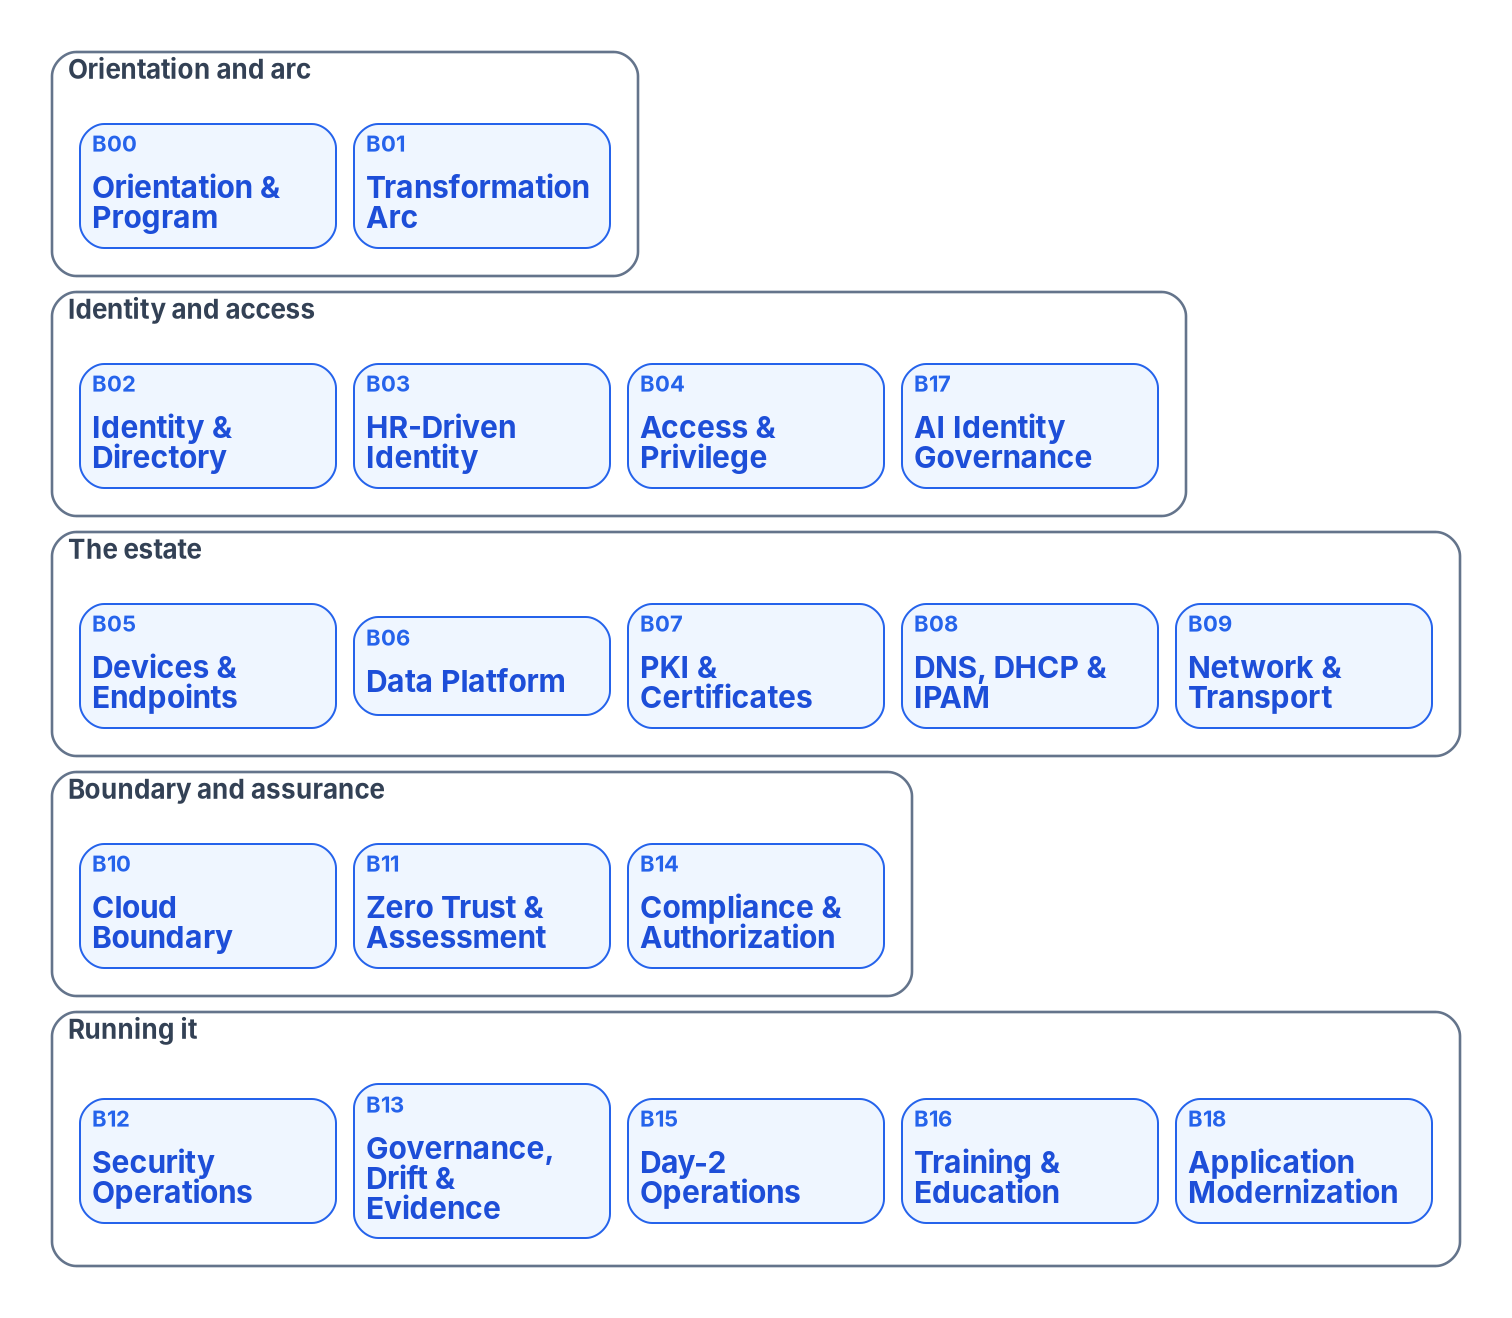
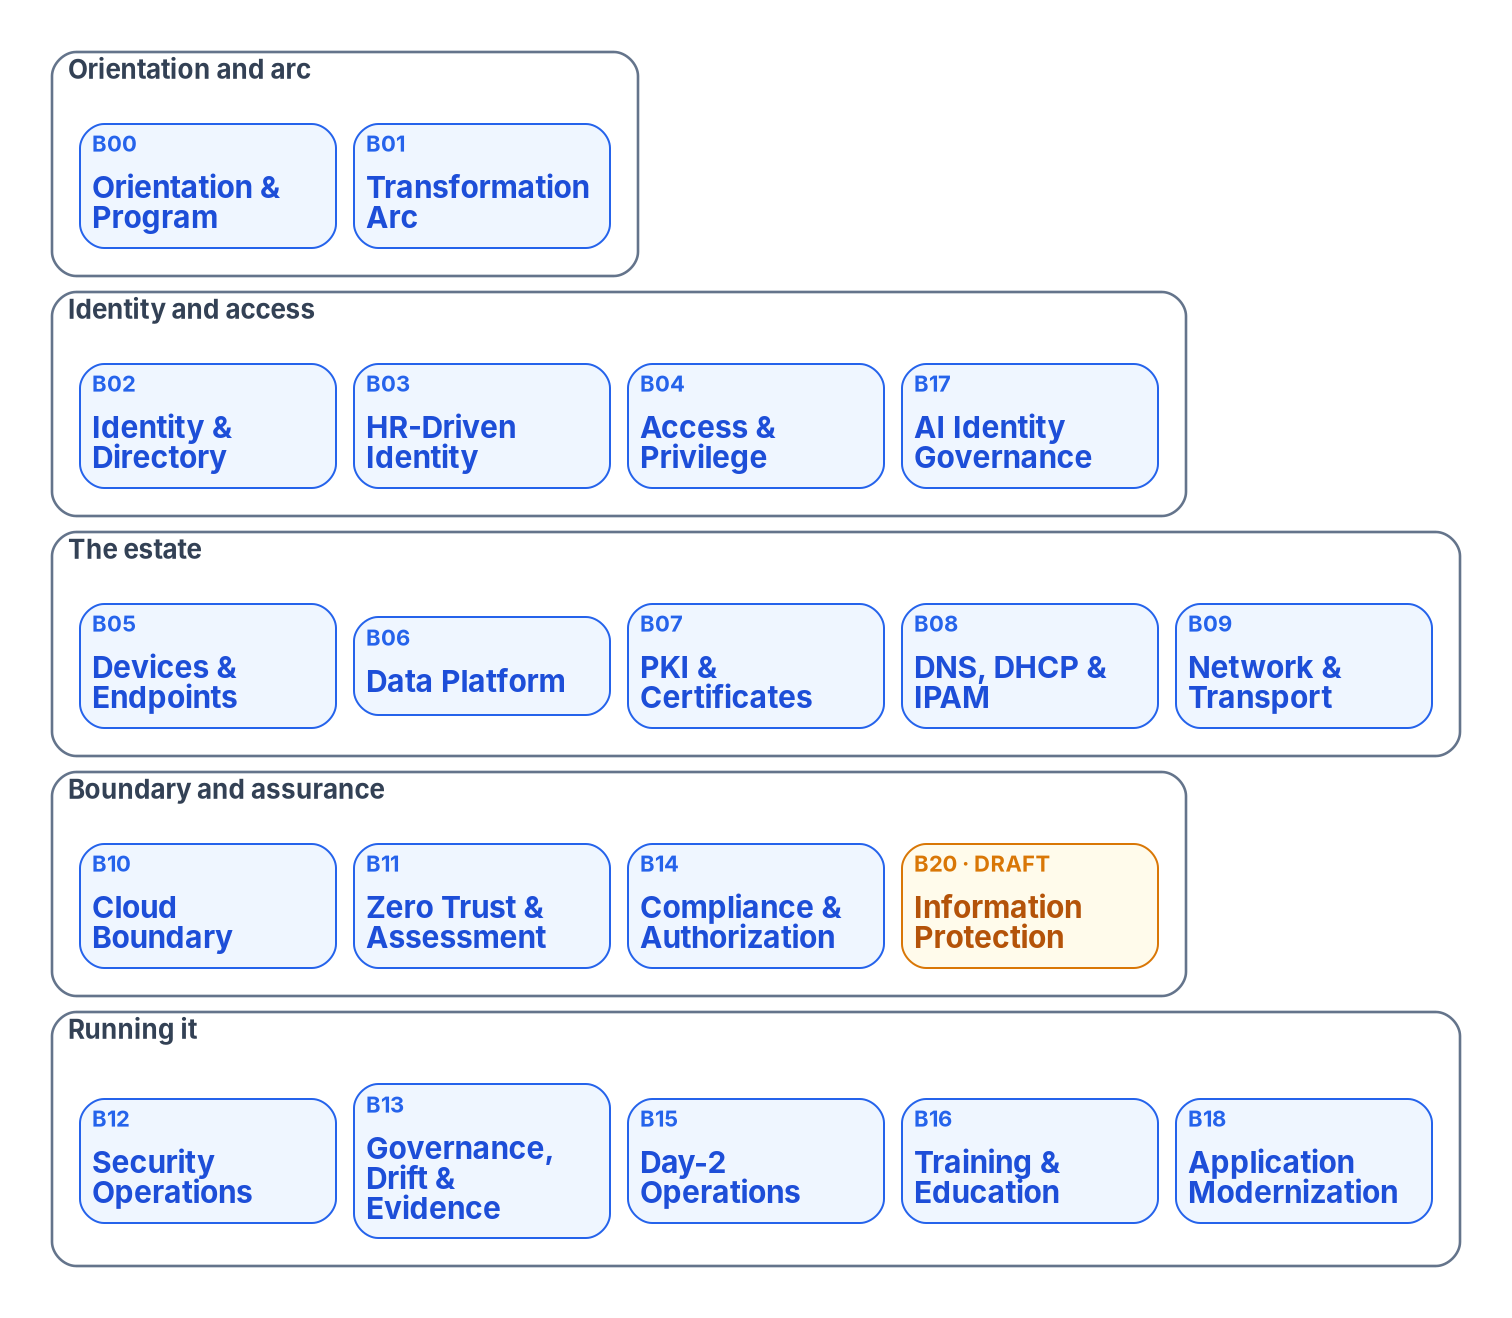
ZTA closure, Phase 4 follow-ups: Book 20 on the home page and the Book 00 map
Home page: twenty topic books and the developer workbook, with Book 20 named as a
draft outside Release 2.0 (matching the Books page), a Book 20 card, and the stat
tile updated. Book 00 Chapter 02: Book 20 added to the map-of-the-books diagram
source in amber, tagged draft, re-rendered with scripts/diagrams/render.py; the
caption, alt text and the chapter's count updated (the old heading's anchor kept).

Changed region(s): [[0.5906, 0.6222, 0.7149, 0.7777], [0.5906, 0.5599, 0.6217, 0.591]]

diff --git a/docs/books/b00-orientation/02-how-to-use-this-workbook.md b/docs/books/b00-orientation/02-how-to-use-this-workbook.md
@@ -1,6 +1,6 @@
 ---
 title: "Chapter 02 — How to Use This Workbook"
-description: "How the Federal Modernization Workbook is built and organized: nineteen topic books, each framed Why / What / Who / How; how every external claim is verified and footnoted; the house-style diagrams; the Word editions; the 15-minute decks with narrated, captioned editions; how replaced pages are archived and redirected; reading paths by role; and a map of the books."
+description: "How the Federal Modernization Workbook is built and organized: twenty topic books, each framed Why / What / Who / How; how every external claim is verified and footnoted; the house-style diagrams; the Word editions; the 15-minute decks with narrated, captioned editions; how replaced pages are archived and redirected; reading paths by role; and a map of the books."
 doc-type: workbook-chapter
 audience: [Executive, Technical, Customer]
 family: b00-orientation
@@ -15,22 +15,22 @@ lifecycle_review: 2027-04-01
 
 # Chapter 02 — How to Use This Workbook
 
-*Nineteen books, one question each, and every external claim traceable to the source that makes it.*
+*Twenty topic books, one question each, and every external claim traceable to the source that makes it.*
 
 ::: {.callout-note}
 ## In this chapter
-How the Federal Modernization Workbook is organized into nineteen topic books and why each one follows the same Why / What / Who / How shape. How claims are verified and footnoted, and how to tell an external fact from a program design position or an illustrative example. What the diagrams, Word editions and presentations are, and how they stay in step with the chapters. What happened to the workbook's earlier pages. What the workbook covers and what it doesn't, reading paths for each role, and a map of the books, including one by Cybersecurity Framework Function.
+How the Federal Modernization Workbook is organized into twenty topic books and why each one follows the same Why / What / Who / How shape. How claims are verified and footnoted, and how to tell an external fact from a program design position or an illustrative example. What the diagrams, Word editions and presentations are, and how they stay in step with the chapters. What happened to the workbook's earlier pages. What the workbook covers and what it doesn't, reading paths for each role, and a map of the books, including one by Cybersecurity Framework Function.
 :::
 
 The workbook grew the way most program material grows: as whitepapers, operational guides, executive briefs, case studies and series, each written when a question came up. That produced depth on many topics and no reliable way through them. The same subject could appear in four places, in four states of currency, with no sign of which one to trust.
 
 The books fix that. Each book takes one topic, consolidates every page the workbook had on it into an ordered reading sequence, checks every external claim against a primary source as of the day it was built, and replaces the earlier pages. This chapter explains how the books are built so that a reader can use them with confidence, and so that a reader who finds a problem knows where to look.
 
-![The Federal Modernization Workbook's nineteen books in five groups: orientation and the transformation arc, identity and access, the estate, boundary and assurance, and running the modernized estate.](../../images/diagrams/b00-orientation/svg/ch02-map-of-the-books.svg){#fig-ch02-map-of-the-books fig-alt="Five groups of book cards. Orientation and arc: Book 00, Orientation and Program, why modernize and why now; Book 01, The Transformation Arc, why modernization is so hard. Identity and access: Book 02, Identity and Directory; Book 03, HR-Driven Identity; Book 04, Access and Privilege; Book 17, AI Identity Governance. The estate: Book 05, Devices and Endpoints; Book 06, Data Platform, SQL Server identity; Book 07, PKI and Certificates; Book 08, DNS, DHCP and IPAM; Book 09, Network and Transport. Boundary and assurance: Book 10, Cloud Boundary and Landing Zone; Book 11, Zero Trust and Assessment; Book 14, Federal Compliance and Authorization. Running it: Book 12, Security Operations and Telemetry; Book 13, Governance, Drift and Evidence; Book 15, Compliance Automation and Day-2 Operations; Book 16, People, Training and Education; Book 18, Application Modernization. All nineteen books are published, shown in blue."}
+![The Federal Modernization Workbook's twenty topic books in five groups: orientation and the transformation arc, identity and access, the estate, boundary and assurance, and running the modernized estate.](../../images/diagrams/b00-orientation/svg/ch02-map-of-the-books.svg){#fig-ch02-map-of-the-books fig-alt="Five groups of book cards. Orientation and arc: Book 00, Orientation and Program, why modernize and why now; Book 01, The Transformation Arc, why modernization is so hard. Identity and access: Book 02, Identity and Directory; Book 03, HR-Driven Identity; Book 04, Access and Privilege; Book 17, AI Identity Governance. The estate: Book 05, Devices and Endpoints; Book 06, Data Platform, SQL Server identity; Book 07, PKI and Certificates; Book 08, DNS, DHCP and IPAM; Book 09, Network and Transport. Boundary and assurance: Book 10, Cloud Boundary and Landing Zone; Book 11, Zero Trust and Assessment; Book 14, Federal Compliance and Authorization; Book 20, Information Protection and Microsoft Purview. Running it: Book 12, Security Operations and Telemetry; Book 13, Governance, Drift and Evidence; Book 15, Compliance Automation and Day-2 Operations; Book 16, People, Training and Education; Book 18, Application Modernization. Books 00 to 18 are published in Release 2.0, shown in blue; Book 20, added in November 2026, is a draft, shown in amber and tagged draft."}
 
-## Nineteen books
+## Twenty topic books {#nineteen-books}
 
-The workbook is organized as nineteen topic books, numbered B00 to B18, and a code-first developer workbook, Book 19. Book 00, this one, is the front door: it makes the case for modernizing now and sets out the program that the other books carry out. Book 01 tells the end-to-end transformation arc from client/server to hybrid cloud. Books 02 to 18 each take one domain in depth. Book 20, Information Protection & Microsoft Purview, added in November 2026 with the Zero Trust Assessment closure update, carries the data pillar; it is listed in the table below and the [book index](../index.md), and isn't yet in the map above.
+The workbook is organized as twenty topic books, numbered B00 to B18 and B20, and a code-first developer workbook, Book 19. Book 00, this one, is the front door: it makes the case for modernizing now and sets out the program that the other books carry out. Book 01 tells the end-to-end transformation arc from client/server to hybrid cloud. Books 02 to 18 each take one domain in depth. Book 20, Information Protection & Microsoft Purview, added in November 2026 with the Zero Trust Assessment closure update, carries the data pillar; it is a draft, shown in amber in the map above with the boundary and assurance books, and listed in the table below and the [book index](../index.md).
 
 The numbering follows the dependency chain [Chapter 01](01-why-modernize-now.md) describes. Identity comes first because every later decision depends on it; the estate's infrastructure follows; boundary, assurance and operations come after. The map above groups the books that way, and the [book index](../index.md) lists them with their status.
 
